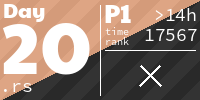
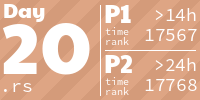
Tiles

diff --git a/README.md b/README.md
@@ -17,10 +17,10 @@
 ## Scores
 <!-- AOC TILES BEGIN -->
 <h1 align="center">
-  Advent of Code - 116/492 ⭐
+  Advent of Code - 117/492 ⭐
 </h1>
 <h1 align="center">
-  2024 - 41 ⭐ - Rust
+  2024 - 42 ⭐ - Rust
 </h1>
 <a href="aoc-2024/src/day01.rs">
   <img src=".aoc_tiles/tiles/2024/01.png" width="161px">
